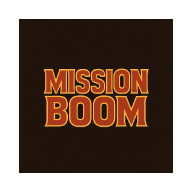
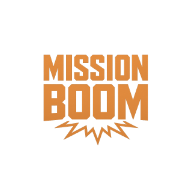
theme chnages

diff --git a/src/index.css b/src/index.css
@@ -9,12 +9,12 @@ body {
 .app {
   max-width: 800px;
   margin: auto;
-  padding: 20px;
+  padding:0px 20px 20px;
 }
 
 h1 {
   text-align: center;
-  color: #0ff;
+  /* color: #0ff; */
   text-shadow: 0 0 8px #0ff8;
 }
 
@@ -23,7 +23,7 @@ h1 {
   align-items: center;
   flex-wrap: wrap;
   justify-content: space-between;
-  margin: 20px 0;
+  margin: 10px 0px 20px;
   background: rgba(255,255,255,0.05);
   padding: 16px 10px;
   border-radius: 12px;
@@ -65,7 +65,7 @@ input[type="checkbox"] {
 
 .btn {
   margin-top: 12px;
-  background: #0ff;
+  background: #e28543;
   color: #000;
   border: none;
   padding: 14px 24px;
@@ -79,7 +79,7 @@ input[type="checkbox"] {
 
 .btn:hover {
   transform: scale(1.05);
-  background: #0cc;
+  background: #e28543;
 }
 
 .progress {
@@ -100,9 +100,9 @@ input[type="checkbox"] {
 }
 
 .dot.filled {
-  background: #0ff;
+  background: #e28543;
   color: #000;
-  box-shadow: 0 0 8px #0ff8;
+  box-shadow:0 0 8px #e2854366;
 }
 
 .card-grid {
@@ -116,7 +116,7 @@ input[type="checkbox"] {
   background: rgba(255,255,255,0.08);
   border-radius: 12px;
   padding: 12px;
-  box-shadow: 0 0 12px #0ff4;
+  box-shadow: 0 0 12px #e285430a;
   text-align: center;
   transition: 0.3s;
 }
@@ -132,7 +132,7 @@ input[type="checkbox"] {
   margin-top: 40px;
   padding: 10px;
   background: #111;
-  border-left: 4px solid #0ff;
+  border-left: 4px solid #e28543;;
   color: #aaa;
 }
 
@@ -165,13 +165,13 @@ input[type="checkbox"] {
   text-decoration: line-through;
   color: #aaa;
   background: rgba(0, 255, 255, 0.1);
-  border-color: #04bac5;
+  border-color: #e28543;
 }
 
 .task-card input[type="checkbox"] {
   width: 18px;
   height: 18px;
-  accent-color: #0ff;
+  accent-color: #e28543;
 }
 .next-btn   {
       margin: 22px auto 0;

diff --git a/src/App.jsx b/src/App.jsx
@@ -169,7 +169,7 @@ const App = () => {
 
   return (
     <div className="app">
-      <img className='logo' src={logo} alt="Mission Boom Logo" width="120" height="80" />
+      <img className='logo' src={logo} alt="Mission Boom Logo" width="120" height="100" />
       <div className="topbar">
         <div>📅 Day {day}/14</div>
         <div>🔥 Streak: {streak}</div>
@@ -191,7 +191,7 @@ const App = () => {
     </label>
   ))}
 </div>
-        <button className="btn next-btn" onClick={nextDay}>Next Mission ➡</button>
+        <button className="btn next-btn" onClick={nextDay}>Next Mission </button>
       </div>
 
       <div className="glass">
